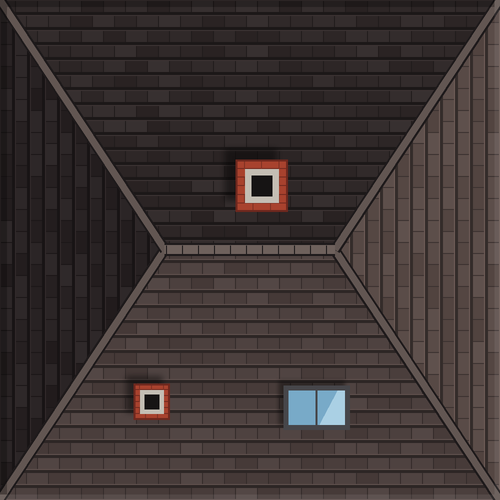
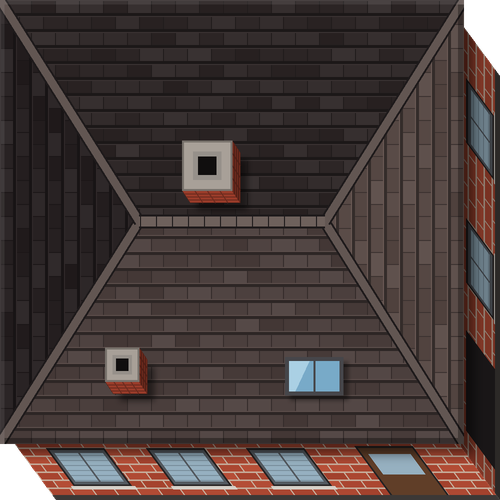
Add sidewalk-space between houses and road

diff --git a/main.py b/main.py
@@ -60,8 +60,8 @@ class World:
         house_2 = pygame.transform.scale(house_2, (500, 700))
 
         self.houses = [
-            pygame.Rect(2500, 400, 500, 500),
-            pygame.Rect(2500, 2500, 500, 700)
+            pygame.Rect(2450, 400, 500, 500),
+            pygame.Rect(2480, 2500, 500, 700)
         ]
 
         self.house_images = [house_1, house_2]
